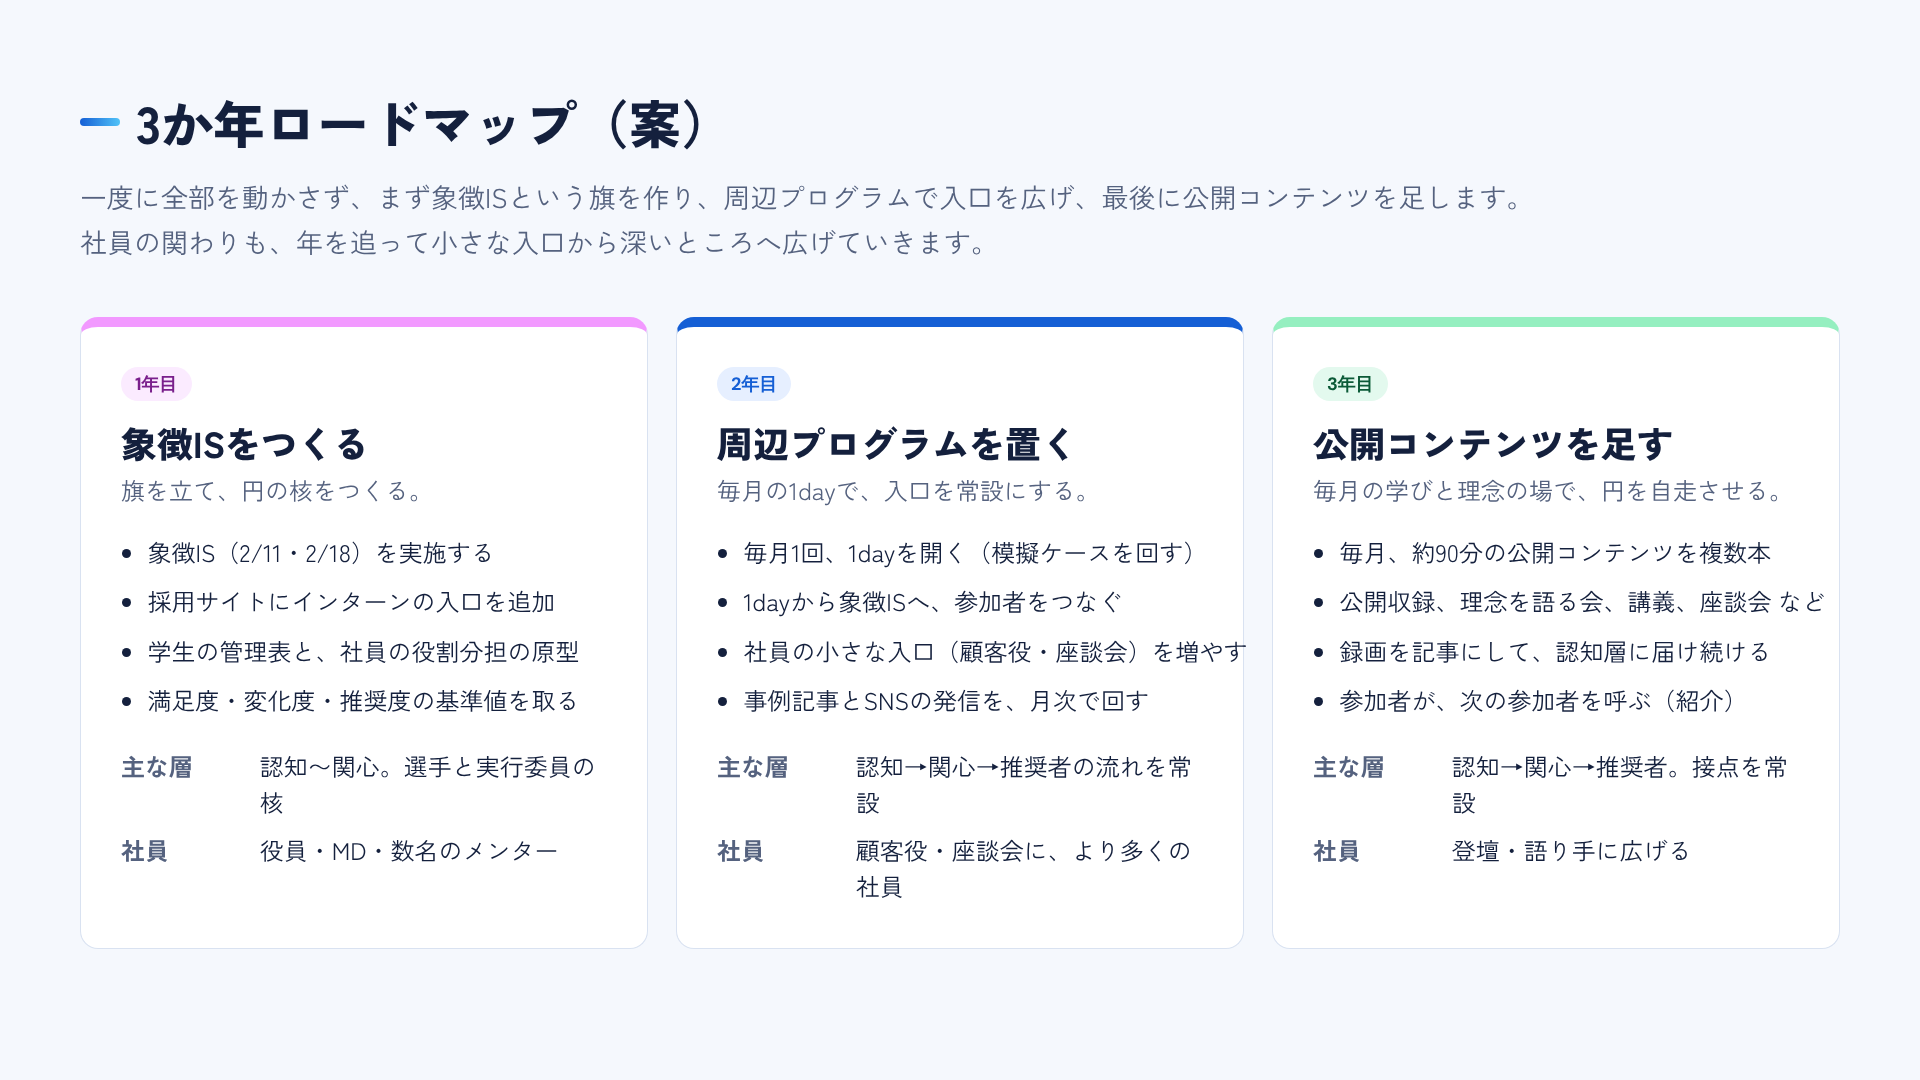
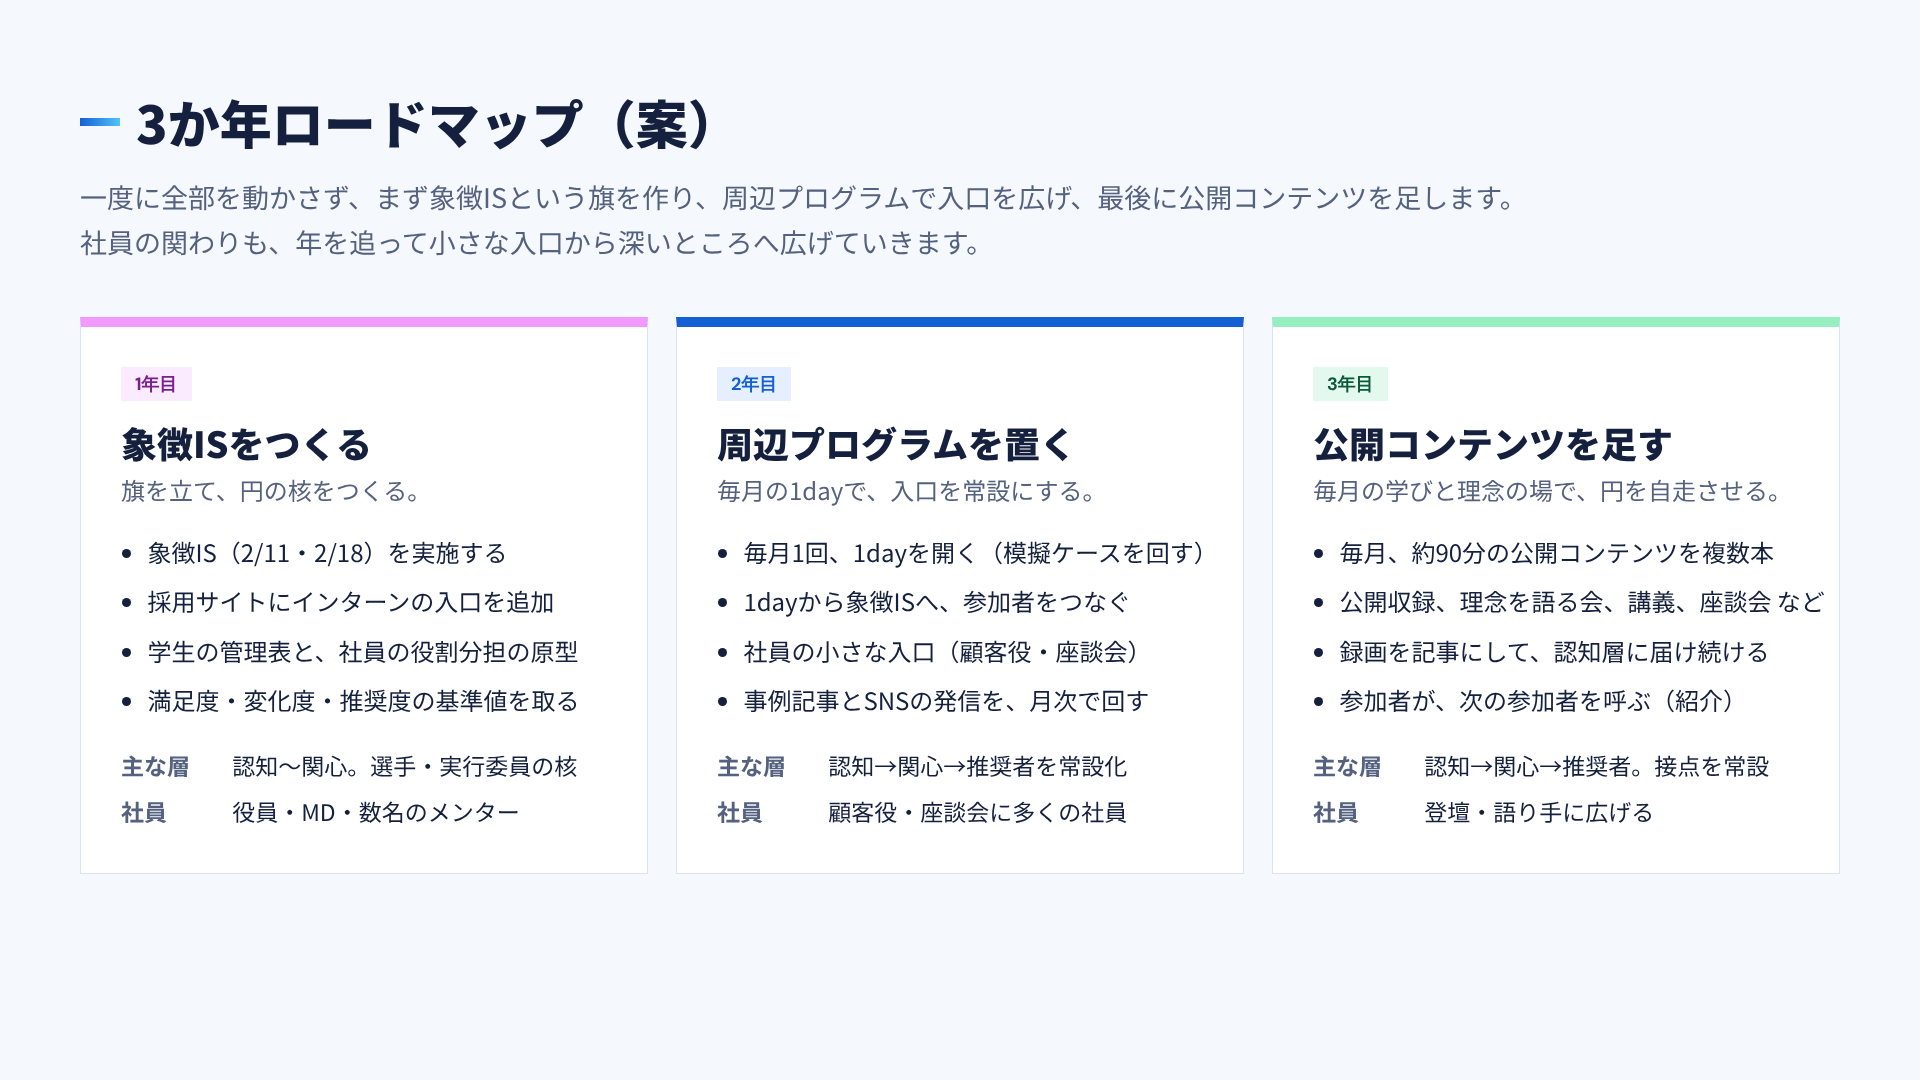
Roadmap image: square corners, Yu Gothic stack, no wrapping
Claude-Session: https://claude.ai/code/session_01Xhd935483LvBFQhUZSBxMp

diff --git a/roadmap_3years.html b/roadmap_3years.html
@@ -1,0 +1,32 @@
+<!doctype html><meta charset="utf-8">
+<link rel="stylesheet" href="https://fonts.googleapis.com/css2?family=Noto+Sans+JP:wght@400;500;700;900&family=DM+Sans:wght@500;700&display=swap">
+<style>
+*{box-sizing:border-box}body{margin:0}
+.s{width:1920px;height:1080px;background:#f5f8fd;color:#14203d;font-family:'Yu Gothic','游ゴシック','YuGothic','Noto Sans JP',sans-serif;padding:88px 80px}
+h2{margin:0;font:900 52px/1.3 'Yu Gothic','游ゴシック','YuGothic','Noto Sans JP',sans-serif;display:flex;align-items:center;gap:16px}
+h2::before{content:"";width:40px;height:8px;border-radius:0;background:linear-gradient(90deg,#155fd5,#51c3f8)}
+.lead{margin:18px 0 0;font-size:27px;line-height:1.7;color:#55627f}
+.g{display:grid;grid-template-columns:repeat(3,1fr);gap:28px;margin-top:52px}
+.c{min-width:0;background:#fff;border:1px solid #d9e2f1;border-radius:0;padding:40px 40px 44px;border-top:10px solid var(--t)}
+.b{display:inline-block;font:700 18px/1 'DM Sans',sans-serif;padding:8px 14px;border-radius:0;background:var(--bb);color:var(--bf)}
+h3{margin:18px 0 0;font:900 36px/1.3 'Yu Gothic','游ゴシック','YuGothic','Noto Sans JP',sans-serif}
+.r{margin:6px 0 0;font-size:24px;color:#55627f}
+ul{margin:26px 0 0;padding-left:1.1em;font-size:24px;line-height:1.55}
+li{margin:12px 0;white-space:nowrap}
+dl{margin:30px 0 0;display:grid;grid-template-columns:4.4em 1fr;gap:12px 10px;font-size:23px;line-height:1.5}
+dt{color:#55627f;font-weight:700}dd{margin:0;white-space:nowrap}
+</style>
+<div class="s">
+<h2>3か年ロードマップ（案）</h2>
+<p class="lead">一度に全部を動かさず、まず象徴ISという旗を作り、周辺プログラムで入口を広げ、最後に公開コンテンツを足します。<br>社員の関わりも、年を追って小さな入口から深いところへ広げていきます。</p>
+<div class="g">
+<div class="c" style="--t:#f299ff;--bb:#fbebff;--bf:#7a1f8c"><span class="b">1年目</span><h3>象徴ISをつくる</h3><p class="r">旗を立て、円の核をつくる。</p>
+<ul><li>象徴IS（2/11・2/18）を実施する</li><li>採用サイトにインターンの入口を追加</li><li>学生の管理表と、社員の役割分担の原型</li><li>満足度・変化度・推奨度の基準値を取る</li></ul>
+<dl><dt>主な層</dt><dd>認知〜関心。選手・実行委員の核</dd><dt>社員</dt><dd>役員・MD・数名のメンター</dd></dl></div>
+<div class="c" style="--t:#155fd5;--bb:#e6efff;--bf:#155fd5"><span class="b">2年目</span><h3>周辺プログラムを置く</h3><p class="r">毎月の1dayで、入口を常設にする。</p>
+<ul><li>毎月1回、1dayを開く（模擬ケースを回す）</li><li>1dayから象徴ISへ、参加者をつなぐ</li><li>社員の小さな入口（顧客役・座談会）</li><li>事例記事とSNSの発信を、月次で回す</li></ul>
+<dl><dt>主な層</dt><dd>認知→関心→推奨者を常設化</dd><dt>社員</dt><dd>顧客役・座談会に多くの社員</dd></dl></div>
+<div class="c" style="--t:#95efc0;--bb:#e3f9ee;--bf:#0b5a37"><span class="b">3年目</span><h3>公開コンテンツを足す</h3><p class="r">毎月の学びと理念の場で、円を自走させる。</p>
+<ul><li>毎月、約90分の公開コンテンツを複数本</li><li>公開収録、理念を語る会、講義、座談会 など</li><li>録画を記事にして、認知層に届け続ける</li><li>参加者が、次の参加者を呼ぶ（紹介）</li></ul>
+<dl><dt>主な層</dt><dd>認知→関心→推奨者。接点を常設</dd><dt>社員</dt><dd>登壇・語り手に広げる</dd></dl></div>
+</div></div>
